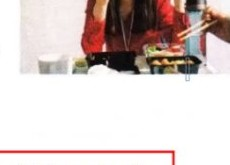
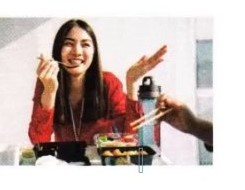
style(wb8): upgrade images C and D to high resolution and use formal Indonesian translations

diff --git a/WorkBookBab8.html b/WorkBookBab8.html
@@ -2967,7 +2967,7 @@
             <div class="bubble-pinyin" style="font-size:1.05rem; font-weight:600; margin-bottom:0.25rem; color:#4f46e5;">Nǐ de shǒujī zài zhuōzi shang ne.</div>
             <div class="bubble-hanzi" style="font-size:1.55rem; font-weight:700; letter-spacing:0.05em; margin-bottom:0.45rem;">你的手机在桌子上呢。</div>
             <div class="bubble-arti" style="font-size:0.84rem; color:#475569; text-align:center; border-top:1px dashed #e2e8f0; padding-top:0.4rem;">
-              Arti: HP (ponsel) kamu ada di atas meja nih.
+              Arti: Telepon genggam (ponsel) Anda berada di atas meja.
             </div>
           </div>
 
@@ -2978,7 +2978,7 @@
               <span style="font-weight:700; font-size:0.82rem; color:#1e293b;">Kecocokan Gambar B (Ponsel di atas meja cas)</span>
             </div>
             <div class="soal-pembahasan" style="font-size:0.82rem; color:#475569; line-height:1.55;">
-              <strong>Penjelasan:</strong> Kalimat menyatakan <strong>你的手机在桌子上呢 (HP kamu ada di atas meja nih)</strong>. Gambar yang cocok adalah <strong>Gambar B</strong> yang memperlihatkan sebuah smartphone diletakkan di atas meja.
+              <strong>Penjelasan:</strong> Kalimat menyatakan bahwa <strong>你的手机在桌子上呢 (Telepon genggam Anda berada di atas meja)</strong>. Gambar yang cocok adalah <strong>Gambar B</strong> yang memperlihatkan sebuah smartphone diletakkan di atas meja.
             </div>
 
             <!-- Analisis Kosakata -->
@@ -3010,7 +3010,7 @@
             <div class="bubble-pinyin" style="font-size:1.05rem; font-weight:600; margin-bottom:0.25rem; color:#4f46e5;">Wǒ zài xuéxiào chī wǔfàn.</div>
             <div class="bubble-hanzi" style="font-size:1.55rem; font-weight:700; letter-spacing:0.05em; margin-bottom:0.45rem;">我在学校吃午饭。</div>
             <div class="bubble-arti" style="font-size:0.84rem; color:#475569; text-align:center; border-top:1px dashed #e2e8f0; padding-top:0.4rem;">
-              Arti: Aku makan siang di sekolah.
+              Arti: Saya makan siang di sekolah.
             </div>
           </div>
 
@@ -3021,7 +3021,7 @@
               <span style="font-weight:700; font-size:0.82rem; color:#1e293b;">Kecocokan Gambar D (Makan siang bersantap hidangan)</span>
             </div>
             <div class="soal-pembahasan" style="font-size:0.82rem; color:#475569; line-height:1.55;">
-              <strong>Penjelasan:</strong> Kalimat menyatakan <strong>我在学校吃午饭 (Aku makan siang di sekolah)</strong>. Gambar yang cocok adalah <strong>Gambar D</strong> yang memperlihatkan seseorang sedang gembira menyantap bekal makanan siang dengan sendok dan sumpit.
+              <strong>Penjelasan:</strong> Kalimat menyatakan bahwa <strong>我在学校吃午饭 (Saya makan siang di sekolah)</strong>. Gambar yang cocok adalah <strong>Gambar D</strong> yang memperlihatkan seseorang sedang gembira menyantap bekal makanan siang dengan sendok dan sumpit.
             </div>
 
             <!-- Analisis Kosakata -->
@@ -3052,7 +3052,7 @@
             <div class="bubble-pinyin" style="font-size:1.05rem; font-weight:600; margin-bottom:0.25rem; color:#4f46e5;">Zhège yīyuàn lǐ bìngrén duō, yīshēng gōngzuò hěn máng.</div>
             <div class="bubble-hanzi" style="font-size:1.55rem; font-weight:700; letter-spacing:0.05em; margin-bottom:0.45rem;">这个医院里病人多，医生工作很忙。</div>
             <div class="bubble-arti" style="font-size:0.84rem; color:#475569; text-align:center; border-top:1px dashed #e2e8f0; padding-top:0.4rem;">
-              Arti: Di rumah sakit ini ada banyak pasien, dokter kerjanya sangat sibuk.
+              Arti: Di rumah sakit ini terdapat banyak pasien, para dokter sangat sibuk bekerja.
             </div>
           </div>
 
@@ -3063,7 +3063,7 @@
               <span style="font-weight:700; font-size:0.82rem; color:#1e293b;">Kecocokan Gambar C (Dokter &amp; Perawat di Rumah Sakit)</span>
             </div>
             <div class="soal-pembahasan" style="font-size:0.82rem; color:#475569; line-height:1.55;">
-              <strong>Penjelasan:</strong> Kalimat mendeskripsikan kondisi di rumah sakit: <strong>这个医院里病人多，医生工作很忙 (Di rumah sakit ini ada banyak pasien, dokternya sangat sibuk bekerja)</strong>. Gambar yang cocok adalah <strong>Gambar C</strong> yang memperlihatkan para dokter dan perawat sedang berdiskusi memeriksa rekam medis pasien di rumah sakit.
+              <strong>Penjelasan:</strong> Kalimat mendeskripsikan situasi di rumah sakit: <strong>这个医院里病人多，医生工作很忙 (Di rumah sakit ini terdapat banyak pasien, para dokter sangat sibuk bekerja)</strong>. Gambar yang cocok adalah <strong>Gambar C</strong> yang memperlihatkan para dokter dan perawat sedang berdiskusi memeriksa rekam medis pasien di rumah sakit.
             </div>
 
             <!-- Analisis Kosakata -->
